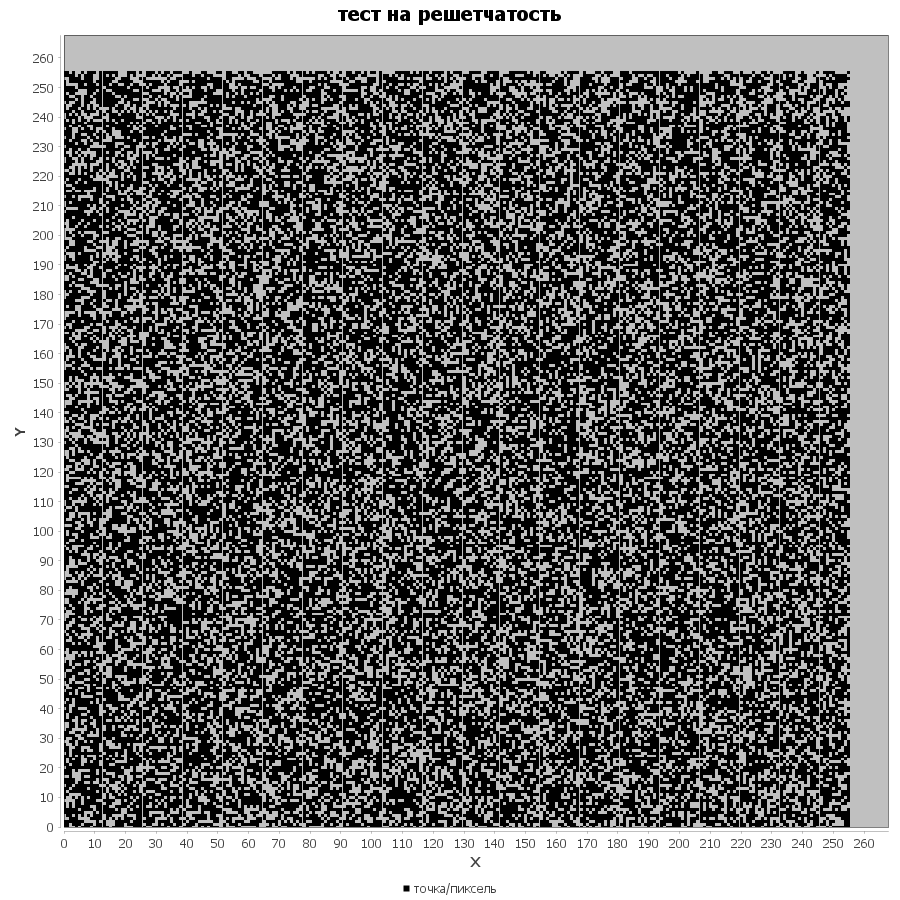
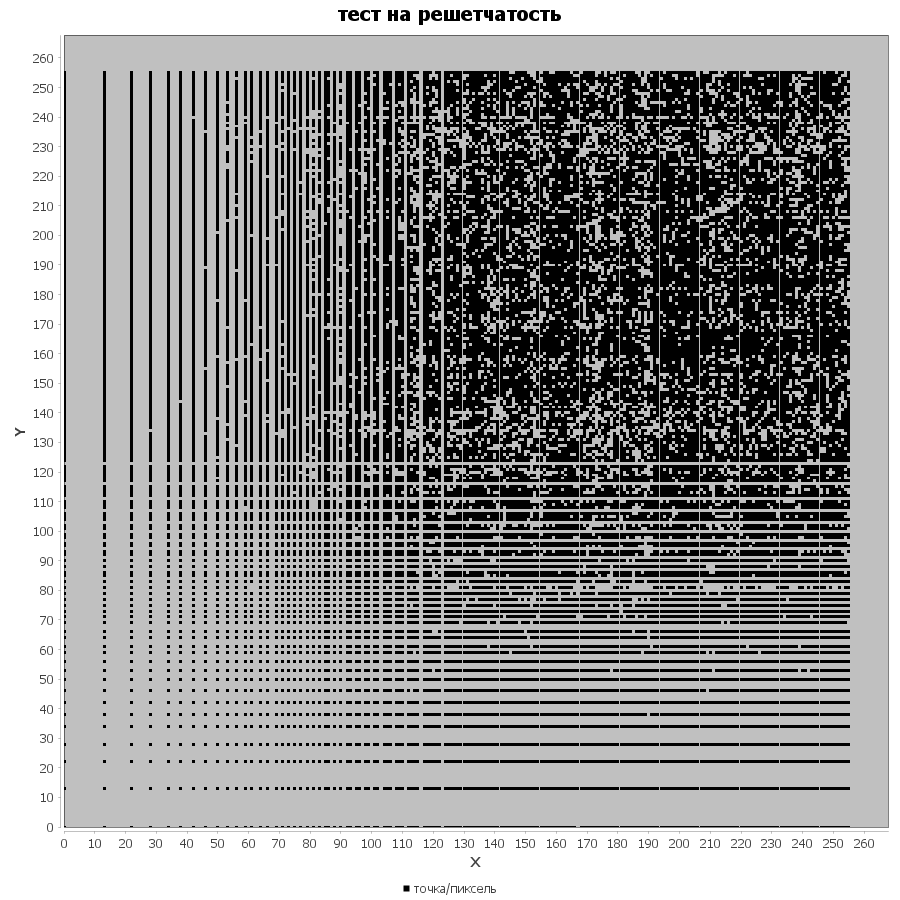
починил акф

diff --git a/src/main/java/graphics/AutoCorrelation.java b/src/main/java/graphics/AutoCorrelation.java
@@ -69,29 +69,28 @@ public class AutoCorrelation {
     }
 
     private static double[] autocorrelation(int[] pixels) {
-        final int count = pixels.length;
-        // int[] pix2 = new int[3000];
-        int[] pix2 = Arrays.copyOfRange(pixels, 0, count);
+        int count = 20000;
+        int[] copiedPixels = new int[count];
+        System.arraycopy(pixels, 0, copiedPixels, 0, count);
+        double avg = 0;
+        for (double value : copiedPixels) {
+            avg += value;
+        }
+        avg /= count;
+
+        for (int i = 0; i < count; i++) {
+            copiedPixels[i] -= avg;
+        }
 
         double[] autocorr = new double[count];
 
         for (int delay = 0; delay < count; delay++) {
-            double correlation = 0.0;
-            for (int i = 0; i < count; i++) {
-                correlation += (pix2[i] * pix2[(i + delay) % count]);
-            }
-            correlation /= count;
-            autocorr[delay] = correlation;
+        double correlation = 0.0;
+        for (int i = delay; i < count; i++) {
+        correlation += (copiedPixels[i - delay] * copiedPixels[i]);
         }
-
-        double avg = 0;
-        for (double value : autocorr) {
-            avg += value;
-        }
-        avg /= autocorr.length;
-
-        for (int i = 0; i < autocorr.length; i++) {
-            autocorr[i] -= avg;
+        correlation /= count;
+        autocorr[delay] = correlation;
         }
 
         return autocorr;

diff --git a/src/main/java/Main.java b/src/main/java/Main.java
@@ -7,7 +7,7 @@ import services.ColorToMonoConverter;
 import coding.contr_perm.Controller;
 
 public class Main {
-    private static final int roundCount = 50;
+    private static final int roundCount = 1;
     private static final int blockSize = 16;
 
     public static void main(String[] args) {
